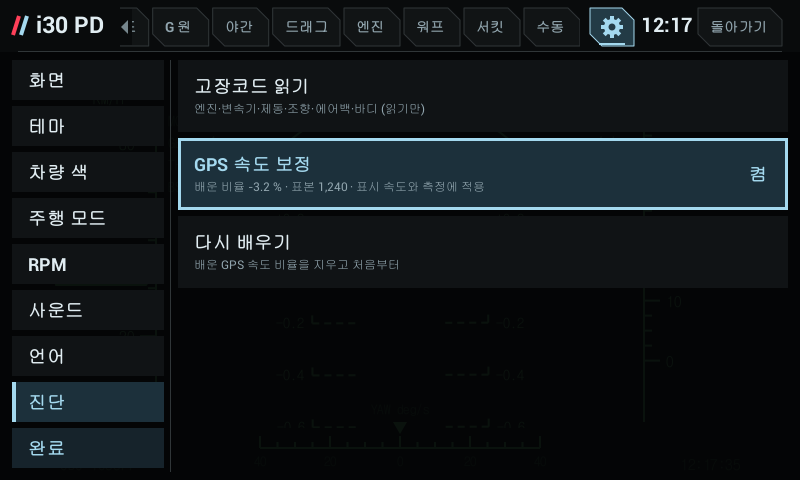
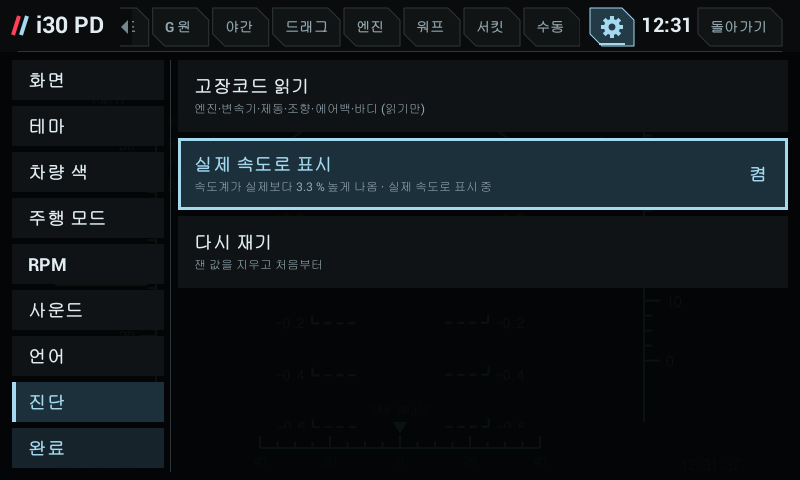
GPS speed calibration in plain words: 실제 속도로 표시, how far the speedometer reads high or low, 다시 재기
(cherry picked from commit 86b2f101a531f1e453f9165cf547c4d9cd844702)

Changed region(s): [[0.25, 0.3125, 0.625, 0.4062], [0.25, 0.4688, 0.5, 0.5625], [0.8438, 0.0312, 0.875, 0.0625]]

diff --git a/shared/src/com/veloster/i18n/UiText.java b/shared/src/com/veloster/i18n/UiText.java
@@ -19,7 +19,9 @@ public final class UiText {
         EN.put("\n비밀번호: ","\nPassword: ");
         EN.put(" L/h 지금"," L/h now");
         EN.put(" L/h를 씁니다"," L/h in use");
+        EN.put(" · 실제 속도로 표시 중"," · showing the true speed");
         EN.put(" · 이 기기에서 실행할 수 없음"," - unavailable on this device");
+        EN.put(" · 켜면 실제 속도로 표시"," · turn on to show the true speed");
         EN.put(" · 표시 항목"," - Signal");
         EN.put(" 실행 실패: "," launch failed: ");
         EN.put(" 전환 요청 완료. 실제 PC 연결은 별도로 확인하세요."," change requested. Verify the actual PC connection separately.");
@@ -71,10 +73,10 @@ public final class UiText {
         EN.put("G-포스","G-force");
         EN.put("GPS 끊김","GPS lost");
         EN.put("GPS 랩 타이머","GPS lap timer");
-        EN.put("GPS 속도 보정","GPS speed calibration");
         EN.put("GPS 신호를 기다리는 중","Waiting for GPS");
         EN.put("GPS 없음","no GPS");
         EN.put("GPS·오디오 등 실제 연결은 해당 앱에서 진행합니다. 기기를 선택해 확인할 때만 페어링을 요청합니다.","Use the relevant app for GPS or audio connections. Pairing is requested only after you select and confirm a device.");
+        EN.put("GPS로 속도계 오차 재는 중 · %d %%","Measuring the speedometer against GPS · %d %%");
         EN.put("KIC 상설 서킷","KIC Permanent Circuit");
         EN.put("L · 가속 페달","L · accelerator");
         EN.put("N 계기판","N Dashboard");
@@ -201,7 +203,7 @@ public final class UiText {
         EN.put("눌러서 화면 고르기","Tap to choose a screen");
         EN.put("늦어진 정도로 추정합니다.","is estimated as retard.");
         EN.put("다른 칸과 위치 바꾸기","Swap with another slot");
-        EN.put("다시 배우기","Learn again");
+        EN.put("다시 재기","Measure again");
         EN.put("다시 조회","Read again");
         EN.put("다운시프트 맞춤 소리가 나는 화면 · 누르면 바뀜","Where the downshift match sounds play · tap to change");
         EN.put("다음","Next");
@@ -270,9 +272,6 @@ public final class UiText {
         EN.put("바로가기: ","Shortcut: ");
         EN.put("반응 시간","Reaction");
         EN.put("배기","Exhaust");
-        EN.put("배우는 중 · 정속 직진 표본 %d / %d","Learning · steady straight samples %d / %d");
-        EN.put("배운 GPS 속도 비율을 지우고 처음부터","Forget the learned GPS speed ratio and start over");
-        EN.put("배운 비율 %+.1f %% · 표본 %,d · 표시 속도와 측정에 적용","Learned %+.1f %% · %,d samples · applied to the shown speed and runs");
         EN.put("배터리 SOC","Battery SOC");
         EN.put("배터리 전압","Battery voltage");
         EN.put("백업 저장 실패. 무선 설정을 변경하지 않았습니다.","Backup could not be saved. Wireless settings were not changed.");
@@ -351,6 +350,9 @@ public final class UiText {
         EN.put("세션 최대","Session peaks");
         EN.put("세종","Sejong");
         EN.put("속도 km/h","Speed km/h");
+        EN.put("속도계가 실제보다 %.1f %% 낮게 나옴","The speedometer reads %.1f %% low");
+        EN.put("속도계가 실제보다 %.1f %% 높게 나옴","The speedometer reads %.1f %% high");
+        EN.put("속도계가 실제와 같음","The speedometer reads true");
         EN.put("쇼","Show");
         EN.put("쇼 화면","Show screen");
         EN.put("수동(6MT) 전용 화면","For the 6-speed manual only");
@@ -376,6 +378,7 @@ public final class UiText {
         EN.put("시스템","System");
         EN.put("시험 접속정보 보기","Show test credentials");
         EN.put("시험 핫스팟 켜기","Test hotspot");
+        EN.put("실제 속도로 표시","Show the true speed");
         EN.put("실행 가능한 기본 앱이 더 없습니다.","No other system apps are available to open.");
         EN.put("실행 가능한 액티비티가 없습니다: ","No launchable activity: ");
         EN.put("실행 바로가기 / Quick entry","Quick entry");
@@ -506,6 +509,7 @@ public final class UiText {
         EN.put("재시작","Restart");
         EN.put("재시작 요청 실패: ","Restart request failed: ");
         EN.put("재시작 요청이 취소되었습니다.","Restart request cancelled.");
+        EN.put("잰 값을 지우고 처음부터","Forget the measurement and start over");
         EN.put("저속 시간","Slow time");
         EN.put("저장","Save");
         EN.put("저장 / Save","Save");

diff --git a/shared/src/com/veloster/vehicle/PitRenderer.java b/shared/src/com/veloster/vehicle/PitRenderer.java
@@ -296,10 +296,13 @@ public final class PitRenderer {
                         dim=!soundOn||noTurbo;}   // one line per row: nine rows fill the pane
                     break;
                 case SettingsLayout.LANG:sel=SettingsLayout.LANGS[i].equals(langSel);name=SettingsLayout.LANG_NAMES[i];break;
-                default:if(i==1){sel=speedCalOn;name="GPS 속도 보정";value=speedCalOn?"켬":"끔";
-                        sub=Float.isNaN(speedCalRatio)?String.format(Locale.US,UiText.t("배우는 중 · 정속 직진 표본 %d / %d"),speedCalSamples,SpeedCal.MIN_SAMPLES)
-                            :String.format(Locale.US,UiText.t("배운 비율 %+.1f %% · 표본 %,d · 표시 속도와 측정에 적용"),(speedCalRatio-1)*100,speedCalSamples);}
-                    else if(i==2){name="다시 배우기";sub="배운 GPS 속도 비율을 지우고 처음부터";dim=speedCalSamples==0;}
+                default:if(i==1){sel=speedCalOn;name="실제 속도로 표시";value=speedCalOn?"켬":"끔";
+                        // plain words: how far the speedometer is off, not the ratio (speedometer = GPS / ratio)
+                        if(Float.isNaN(speedCalRatio))sub=String.format(Locale.US,UiText.t("GPS로 속도계 오차 재는 중 · %d %%"),Math.min(99,speedCalSamples*100/SpeedCal.MIN_SAMPLES));
+                        else{float off=(1/speedCalRatio-1)*100;
+                            sub=String.format(Locale.US,UiText.t(Math.abs(off)<0.05f?"속도계가 실제와 같음":off>0?"속도계가 실제보다 %.1f %% 높게 나옴":"속도계가 실제보다 %.1f %% 낮게 나옴"),Math.abs(off))
+                                +UiText.t(speedCalOn?" · 실제 속도로 표시 중":" · 켜면 실제 속도로 표시");}}
+                    else if(i==2){name="다시 재기";sub="잰 값을 지우고 처음부터";dim=speedCalSamples==0;}
                     else{name="고장코드 읽기";sub="엔진·변속기·제동·조향·에어백·바디 (읽기만)";}
             }
             box(c,l,t,l+w,t+h,sel?0xff1c303b:dim?0xff08090a:0xff101315);

diff --git a/i30pd_port/app/preview/TabsPreview.java b/i30pd_port/app/preview/TabsPreview.java
@@ -94,7 +94,7 @@ public final class TabsPreview {
           new PitRenderer().draw(c,800,480,false,model,now,0,false,null);android.graphics.Paint bg=new android.graphics.Paint(1);bg.setColor(Theme.current().map(0xff040506));c.drawRect(0,53,800,480,bg);
           new RaceRenderer().draw(c,q,ShiftGuide.evaluate(q,ShiftGuide.target(0,VehicleProfile.PETROL_DCT),VehicleProfile.PETROL_DCT),now,rec.stats(),VehicleProfile.PETROL_DCT,false,null,null);
           ImageIO.write(img,"png",new File(out,on==1?"x_speedcal_on.png":"x_speedcal_off.png"));}Telemetry.speedScale=1;}
-        rec.setSpeedCal(true,0.968f,1240);rec.setSettings(7,"auto",-1,targets);save(out,"9_settings_diag_speedcal",rec,model,now,false,false);rec.setSpeedCal(false,Float.NaN,0);   // GPS speed calibration learned, on
+        rec.setSpeedCal(true,0.968f,1240);rec.setSettings(7,"auto",-1,targets);save(out,"9_settings_diag_speedcal",rec,model,now,false,false);rec.setSpeedCal(false,0.968f,1240);save(out,"9_settings_diag_speedcal_off",rec,model,now,false,false);rec.setSpeedCal(false,Float.NaN,35);save(out,"9_settings_diag_measuring",rec,model,now,false,false);rec.setSpeedCal(false,Float.NaN,0);   // GPS speed calibration learned, on
         rec.setPicker(false,false,0);rec.setModeOptions(false,false);
         // Missing signals (empty model) and a 6MT profile, drawn straight through ClusterRenderer.
         Telemetry none=new Telemetry();

diff --git a/i30pd_port/app/TABS.md b/i30pd_port/app/TABS.md
@@ -182,7 +182,7 @@ PD에서 새로 고를 수 있는 항목(순간 연료소모 · 평균 연비 ·
   - `화면`: 24개 화면마다 `사용`/`미사용`. 미사용 화면은 탭 줄·목록에 안 나오고 넘길 때도 건너뛴다. 마지막 남은 사용 화면은 끌 수 없고, 지금 보던 화면을 끄면 다음 사용 화면으로 넘어간다.
   - `테마`: 10개 테마를 색 견본과 함께 나열(아래 "테마"). `차량 색`: 8비트 두 화면의 차 색 9가지(아래).
   - `주행 모드`(둘 다 기본 끔): **모드 색** — ECO는 초록, SPORT는 주황빨강으로 모든 화면의 강조색이 바뀐다(경고 빨강과는 다른 색). **모드 화면** — 주행 모드를 바꾸면 그 모드의 화면으로 넘어간다. 아래 SPORT·ECO·NORMAL 줄을 누르면 화면 목록이 열려 모드마다 화면을 고른다(기본 SPORT→F1, ECO→에코, NORMAL→원래 화면). `원래 화면`은 처음 넘어가기 전에 보던 화면으로 돌아가는 것이고, 그 사이 직접 다른 화면으로 옮겼으면 그대로 둔다. 미사용 화면으로는 넘어가지 않는다.
-  - `언어`: 시스템 / 한국어 / English. `진단`: 고장코드 조회 창(아래 "고장코드 조회"), **GPS 속도 보정**(기본 끔, beta 2026-11-05): GPS 속도 ÷ 차 속도를 늘 배우고(정속 40~130 km/h·3초 동안 ±2 km/h·직진 요레이트 3°/s 이하·브레이크 안 밟음·GPS 정확도 10 m 이내·GPS 속도 연속 두 번 ±2 km/h, 차 속도는 위치가 오기 전 1초 평균), 표본 120개부터 최근 600개의 중앙값을 비율로 쓴다(0.90~1.10 밖은 버림, 비율·표본 수 저장). 켜면 화면의 차량 속도(모든 화면·게이지·그래프)와 측정(제로백·60→100·80→120, 최고 속도)에 곱한다. 수동 단수 판정, DCT 학습 기어비, 내릴·올릴 단 RPM, 변속 측정값, 택시 미터 거리는 차 속도 그대로. `다시 배우기`로 처음부터(`SpeedCal`, 프리뷰 `9_settings_diag_speedcal`). GPS가 주는 속도와 펌웨어의 GNSS/DR 항목은 첫 위치 때 한 번 `GPS fields:` 줄로, 1분마다 `GPS … speed`로 기록에 남는다.
+  - `언어`: 시스템 / 한국어 / English. `진단`: 고장코드 조회 창(아래 "고장코드 조회"), **실제 속도로 표시**(GPS 속도 보정, 기본 끔, beta 2026-11-05): GPS 속도 ÷ 차 속도를 늘 배우고(정속 40~130 km/h·3초 동안 ±2 km/h·직진 요레이트 3°/s 이하·브레이크 안 밟음·GPS 정확도 10 m 이내·GPS 속도 연속 두 번 ±2 km/h, 차 속도는 위치가 오기 전 1초 평균), 표본 120개부터 최근 600개의 중앙값을 비율로 쓴다(0.90~1.10 밖은 버림, 비율·표본 수 저장). 켜면 화면의 차량 속도(모든 화면·게이지·그래프)와 측정(제로백·60→100·80→120, 최고 속도)에 곱한다. 수동 단수 판정, DCT 학습 기어비, 내릴·올릴 단 RPM, 변속 측정값, 택시 미터 거리는 차 속도 그대로. 설정 줄에는 "GPS로 속도계 오차 재는 중 · n %" → "속도계가 실제보다 3.3 % 높게 나옴"처럼 나오고, `다시 재기`로 처음부터(`SpeedCal`, 프리뷰 `9_settings_diag_speedcal`). GPS가 주는 속도와 펌웨어의 GNSS/DR 항목은 첫 위치 때 한 번 `GPS fields:` 줄로, 1분마다 `GPS … speed`로 기록에 남는다.
 - **저장**: 지금 화면(`cluster_screen`)과 미사용 목록(`cluster_hidden`, 비트 마스크)을 `pit_vehicle_ui` 설정에 저장해서 재부팅 뒤에도 유지된다. 대시보드는 마지막에 보던 화면으로 열린다(처음엔 전체 조망). 예전 `cluster_layout` 값은 쓰지 않는다.
 
 | 설정 · 화면 | 설정 · 주행 모드 | 모드 화면 고르기 |
